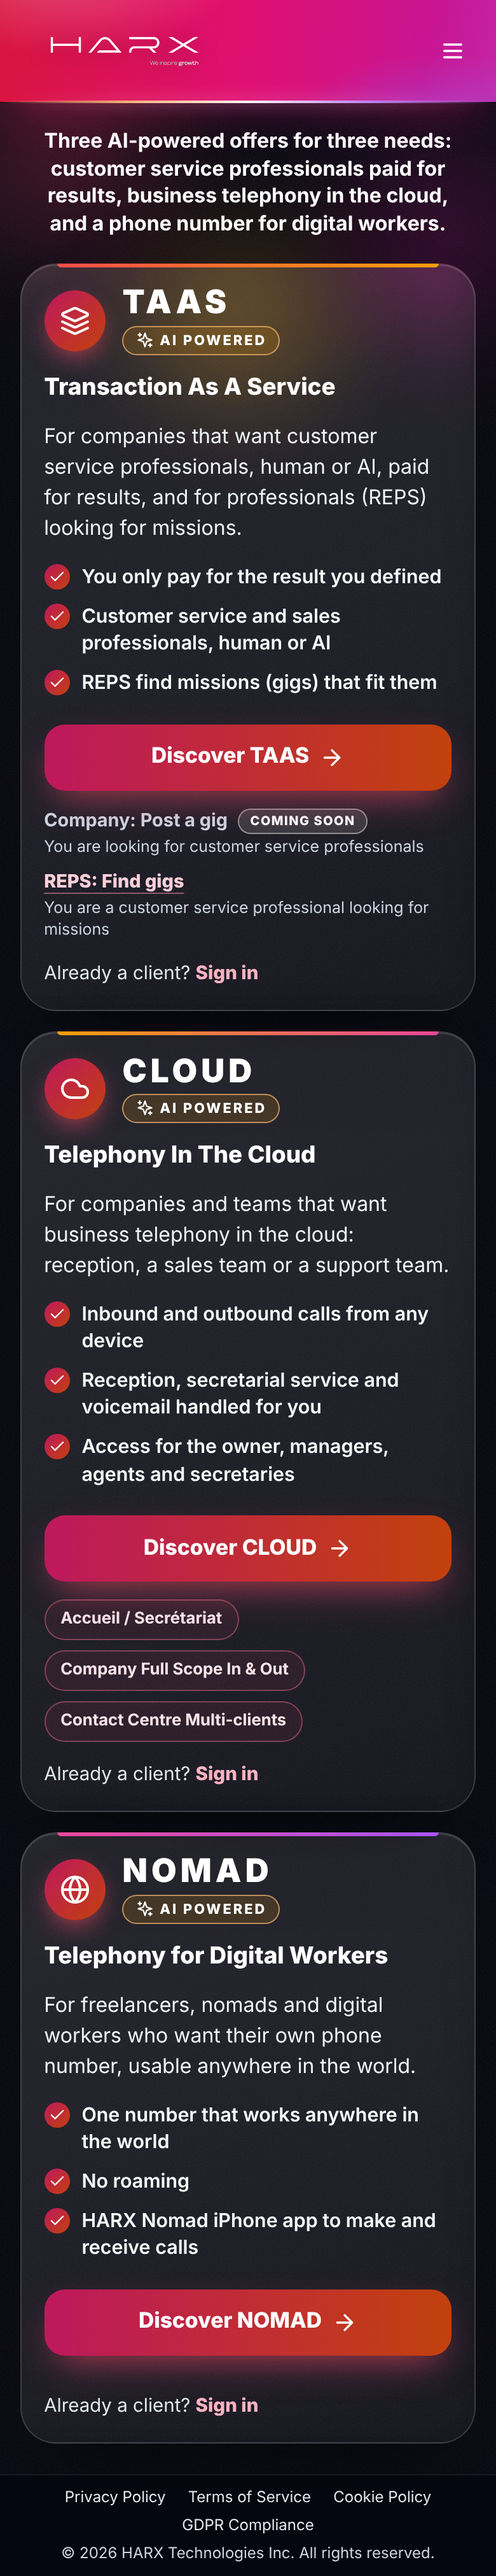
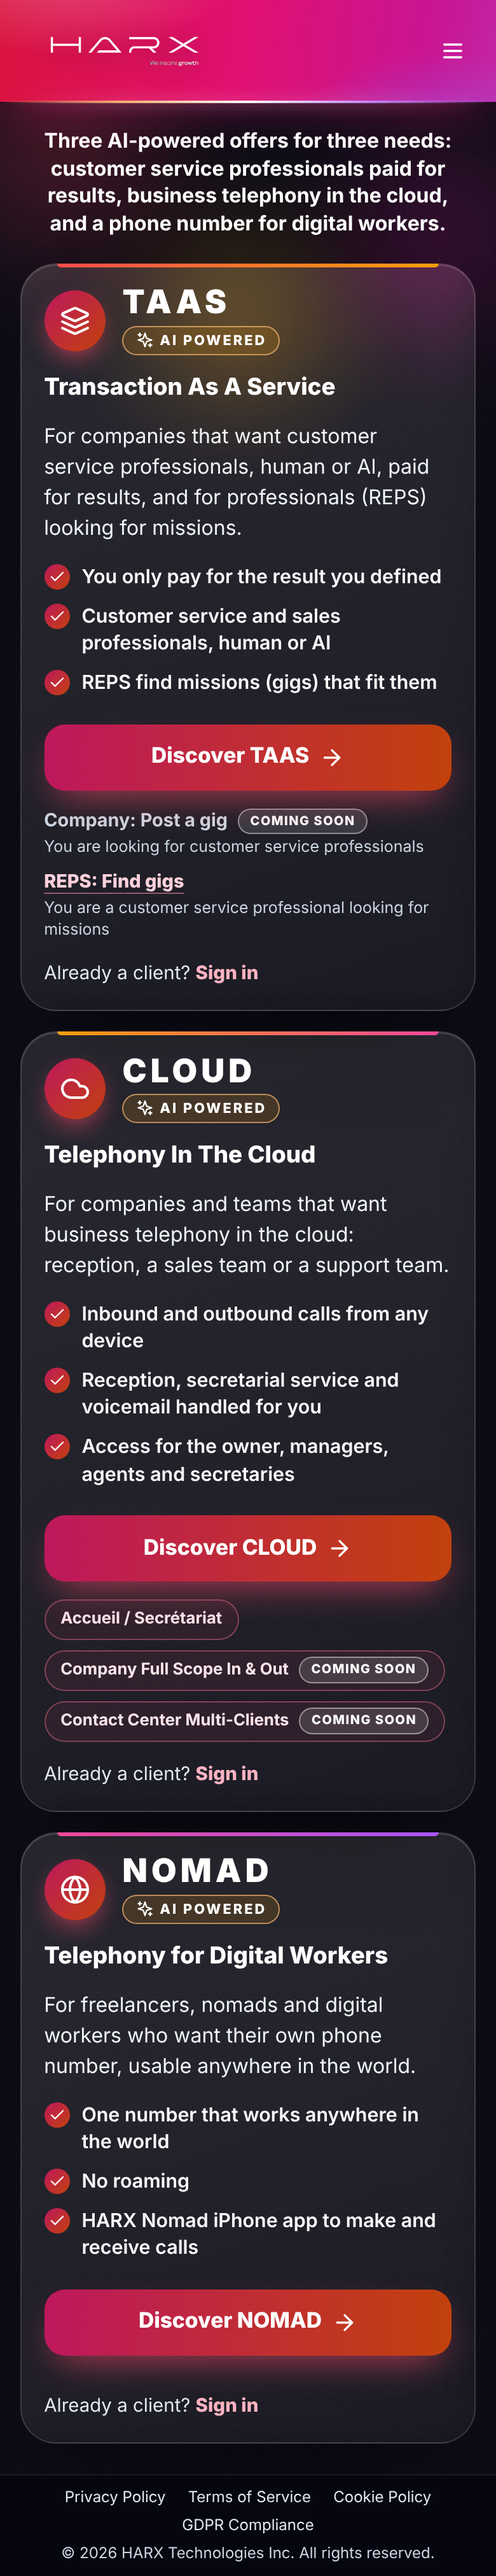
Accueil : Full Scope et Multi-clients « Bientôt disponible » (non cliquables), « Contact Center Multi-Clients » en anglais, captures mises à jour
Claude-Session: https://claude.ai/code/session_01QDHeYpx2HUqCehhUxqRqw2

Changed region(s): [[0.4923, 0.6228, 0.8615, 0.6851]]

diff --git a/src/config/offers.ts b/src/config/offers.ts
@@ -18,7 +18,7 @@ export type OfferLang = 'fr' | 'en' | 'es' | 'ar';
 /** Entrée de l'arborescence d'une offre : parcours d'inscription direct (rôle) ou lien vers une page. */
 export type OfferChild =
   | { id: string; labelKey: string; hintKey?: string; kind: 'role'; role: 'company' | 'rep' | 'call-center' }
-  | { id: string; labelKey: string; hintKey?: string; kind: 'route'; route: string; langPrefixed: boolean };
+  | { id: string; labelKey: string; hintKey?: string; kind: 'route'; route: string; langPrefixed: boolean; /** Offre annoncée mais pas encore ouverte : affichée « Bientôt disponible », sans lien. */ soon?: boolean };
 
 /**
  * Parcours d'inscription pas encore ouverts : « Publier un gig » (rôle company) est annoncé « Bientôt disponible » ;
@@ -31,7 +31,7 @@ export function isRoleComingSoon(role: 'company' | 'rep' | 'call-center'): boole
 }
 
 export function isChildComingSoon(child: OfferChild): boolean {
-  return child.kind === 'role' && isRoleComingSoon(child.role);
+  return child.kind === 'role' ? isRoleComingSoon(child.role) : child.soon === true;
 }
 
 export type OfferChildTarget = { type: 'role'; role: 'company' | 'rep' | 'call-center' } | { type: 'href'; href: string };
@@ -100,11 +100,12 @@ export const OFFERS: readonly OfferConfig[] = [
     ctaKey: 'hub.offers.cloud.cta',
     targetKey: 'hub.offers.cloud.target',
     benefitKeys: ['hub.offers.cloud.benefit1', 'hub.offers.cloud.benefit2', 'hub.offers.cloud.benefit3'],
-    // Noms et ancres de la vitrine /telephony (Nomad Solo a désormais sa propre offre).
+    // Noms et ancres de la vitrine /telephony (Nomad Solo a désormais sa propre offre). Full Scope et Multi-clients sont
+    // « Bientôt disponible » sur la page Téléphonie (statut communiqué par le CTO, non revérifié dans callcenter_front).
     children: [
       { id: 'accueil', labelKey: 'hub.offers.cloud.accueil', kind: 'route', route: '/telephony#accueil-secretariat', langPrefixed: false },
-      { id: 'full_scope', labelKey: 'hub.offers.cloud.fullScope', kind: 'route', route: '/telephony#pme-equipes-distantes', langPrefixed: false },
-      { id: 'multi_clients', labelKey: 'hub.offers.cloud.multiClients', kind: 'route', route: '/telephony#centres-appels', langPrefixed: false },
+      { id: 'full_scope', labelKey: 'hub.offers.cloud.fullScope', kind: 'route', route: '/telephony#pme-equipes-distantes', langPrefixed: false, soon: true },
+      { id: 'multi_clients', labelKey: 'hub.offers.cloud.multiClients', kind: 'route', route: '/telephony#centres-appels', langPrefixed: false, soon: true },
     ],
     signIn: TELEPHONY_SIGN_IN,
   },

diff --git a/src/config/offers.test.ts b/src/config/offers.test.ts
@@ -6,6 +6,7 @@ import {
   HEADER_MARK_IDS,
   NOMAD_SOLO_START,
   getAvailableOffers,
+  isChildComingSoon,
   resolveChildTarget,
   resolveMarkHref,
   resolveOfferHref,
@@ -51,6 +52,15 @@ describe('accueil : trois offres', () => {
       '/telephony#centres-appels',
     ]);
     expect(byId.nomad.children).toEqual([]);
+  });
+
+  it('CLOUD : seules les offres ouvertes sont des liens (Full Scope et Multi-clients « Bientôt disponible »)', () => {
+    expect(byId.cloud.children.map((c) => [c.id, isChildComingSoon(c)])).toEqual([
+      ['accueil', false],
+      ['full_scope', true],
+      ['multi_clients', true],
+    ]);
+    expect(byId.taas.children.map((c) => isChildComingSoon(c))).toEqual([true, false]);
   });
 });
 
@@ -101,9 +111,14 @@ describe('textes (i18n)', () => {
     }
   });
 
+  it('anglais : « Contact Center Multi-Clients » ; français : « Contact Centre Multi-clients »', () => {
+    expect(lookup(locale('en'), 'hub.offers.cloud.multiClients')).toBe('Contact Center Multi-Clients');
+    expect(lookup(locale('fr'), 'hub.offers.cloud.multiClients')).toBe('Contact Centre Multi-clients');
+  });
+
   it('anglais : orthographe US', () => {
     const json = locale('en');
-    for (const o of OFFERS) for (const key of [o.titleKey, o.targetKey, o.ctaKey, ...o.benefitKeys]) expect(lookup(json, key), key).not.toMatch(/\b(centre|colour|organis\w+|favour\w*|programme)\b/i);
+    for (const o of OFFERS) for (const key of [o.titleKey, o.targetKey, o.ctaKey, ...o.benefitKeys, ...o.children.map((c) => c.labelKey)]) expect(lookup(json, key), key).not.toMatch(/\b(centre|colour|organis\w+|favour\w*|programme)\b/i);
   });
 
   it('les noms complets et la mention AI POWERED', () => {

diff --git a/src/components/Hub/HubPage.tsx b/src/components/Hub/HubPage.tsx
@@ -104,7 +104,7 @@ function OfferCard({ offer, lang, onSelectRole }: { offer: OfferConfig; lang: Of
               if (isChildComingSoon(child)) {
                 return (
                   <li key={child.id} className={mini ? '' : 'hub-links__item'}>
-                    <span className="hub-link hub-link--soon" aria-disabled="true" data-testid={`offer-child-${offer.id}-${child.id}`}>
+                    <span className={`${mini ? 'hub-mini hub-mini--soon' : 'hub-link hub-link--soon'}`} aria-disabled="true" data-testid={`offer-child-${offer.id}-${child.id}`}>
                       {t(child.labelKey)}
                       <span className="hub-soon">{t('hub.comingSoon')}</span>
                     </span>

diff --git a/src/components/Hub/hub.css b/src/components/Hub/hub.css
@@ -63,6 +63,7 @@
 .hub-cta:hover::after { transform: translateX(120%); }
 [dir="rtl"] .hub-cta__arrow { transform: scaleX(-1); }
 
+.hub-mini--soon { gap: .5rem; cursor: not-allowed; color: #e2e8f0; border-color: rgba(255, 255, 255, .25); background: rgba(255, 255, 255, .05); }
 .hub-more { display: block; }
 @media (min-width: 1024px) { .hub-more { min-height: 9.5rem; } }
 .hub-links { list-style: none; margin: 0; padding: 0; display: flex; flex-wrap: wrap; gap: .5rem; align-items: flex-start; }
